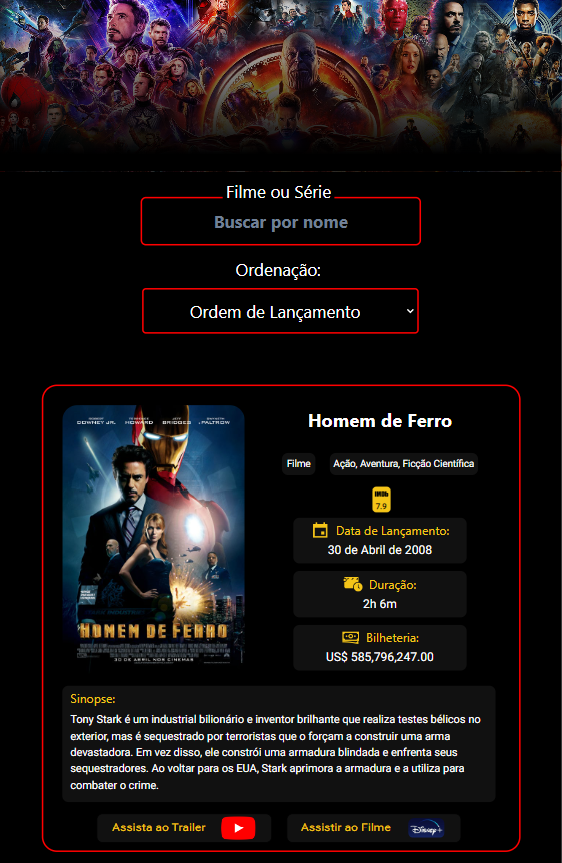
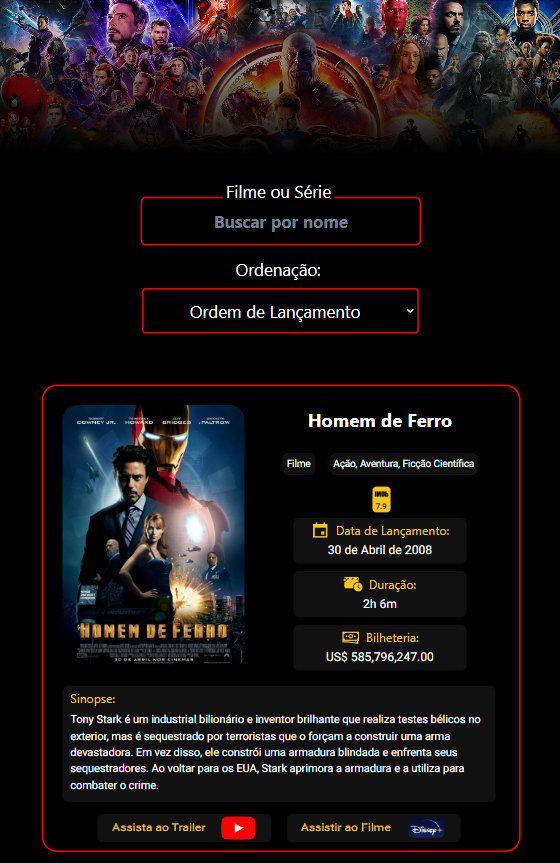
Adição do título e ícone na aba do navegador

diff --git a/src/pages/_app.js b/src/pages/_app.js
@@ -1,5 +1,6 @@
 import { createGlobalStyle, ThemeProvider } from 'styled-components';
 import { ChakraProvider } from '@chakra-ui/react'   
+import Head from 'next/head'
 
 const GlobalStyle = createGlobalStyle`
   body {
@@ -21,6 +22,10 @@ function MyApp({ Component, pageProps }) {
       <GlobalStyle />
       <ThemeProvider theme={theme}>
         <ChakraProvider>
+          <Head>
+            <title>Marvel Universe</title>
+            <link rel="icon" href="/favicon.ico" sizes="any" />
+          </Head>
           <Component {...pageProps} />
         </ChakraProvider>
       </ThemeProvider>

diff --git a/README.md b/README.md
@@ -32,12 +32,16 @@ Este projeto consiste em um site com informações de cada filme e série do Uni
 📍 PC
 📍 Tablet
 📍 Celular
-<br></br>
+<br>
 
-![MarvelPC](./public/screenmarvel.png)
-<br></br>
-
-![MarvelTablet](./public/screenmarveltablet.png)
-<br></br>
-
-![MarvelCel](./public/screenmarvelcel.png)
+<div align="center">
+<img src="https://raw.githubusercontent.com/Heytordesouza/MarvelUniverse/projeto-finalizado/public/screenmarvel.png" width="900px" />
+</div>
+<br>
+<div align="center">
+<img src="https://raw.githubusercontent.com/Heytordesouza/MarvelUniverse/projeto-finalizado/public/screenmarveltablet.png" width="400px" />
+</div>
+<br>
+<div align="center">
+<img src="https://raw.githubusercontent.com/Heytordesouza/MarvelUniverse/projeto-finalizado/public/screenmarvelcel.png" width="250px" />
+</div>
